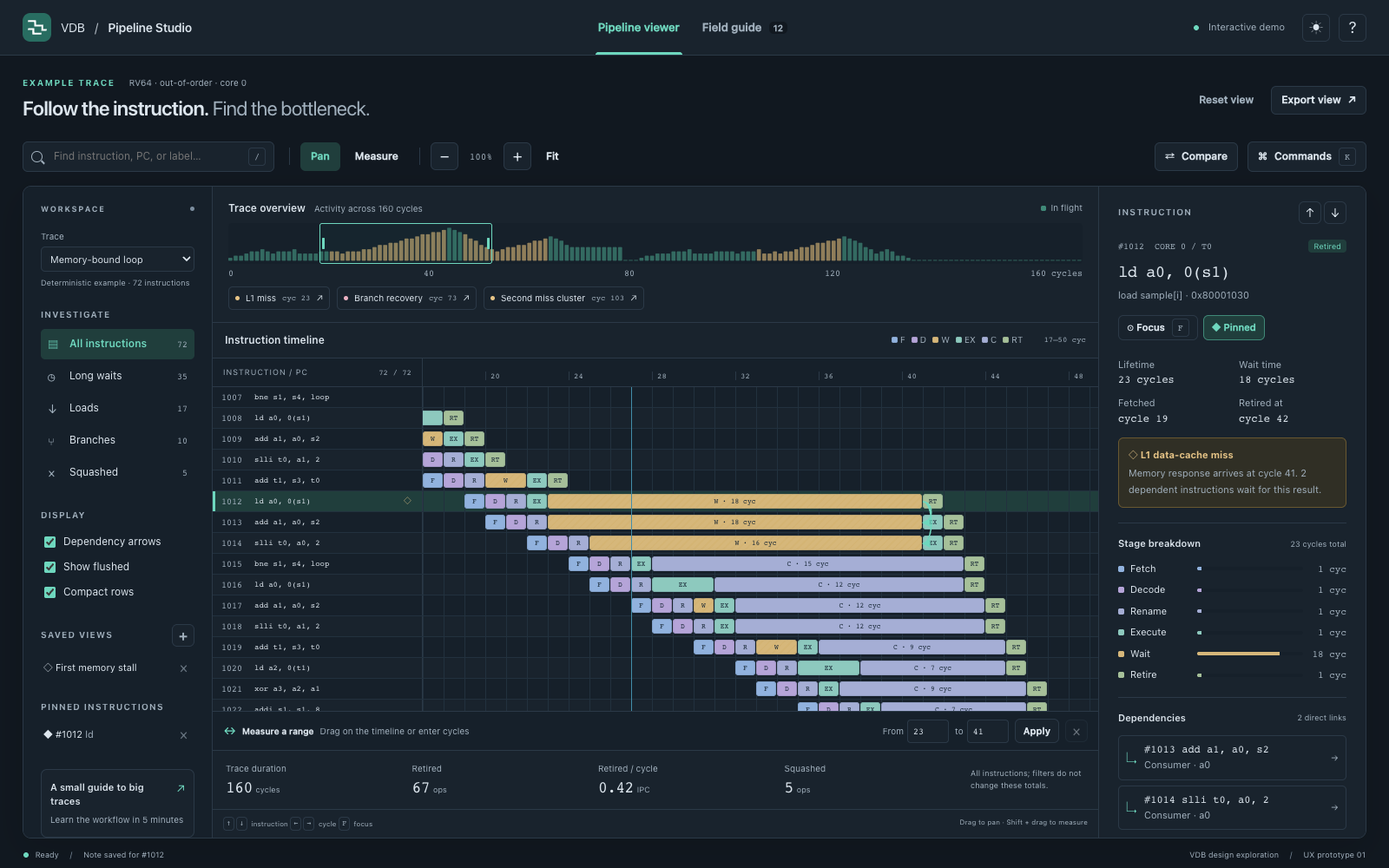
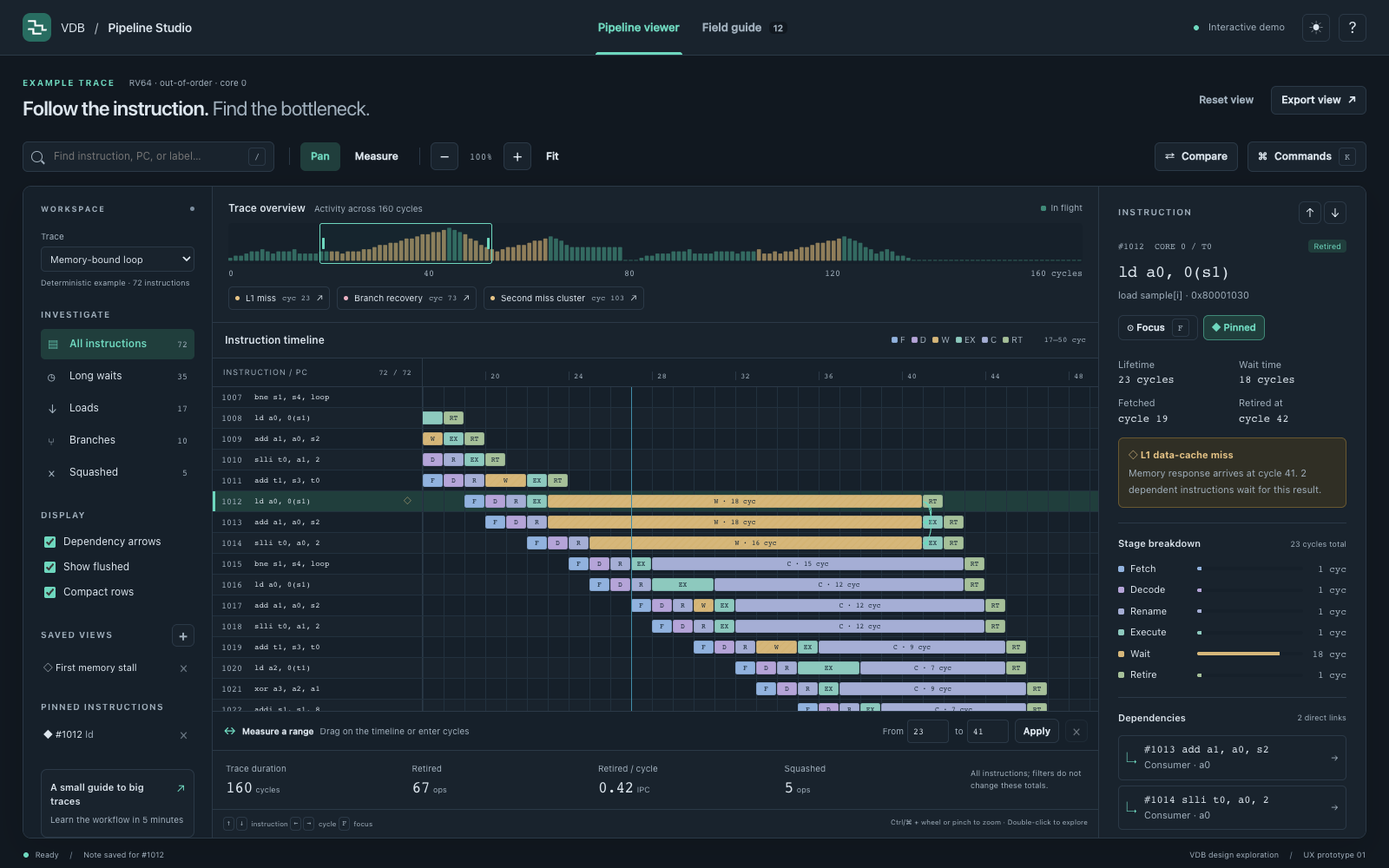
Add map-style zoom to the pipeline viewer demo
Scale cycles and instruction rows together around the pointer or pinch gesture. Add double-click zoom, fit the complete pipeline, simplify labels at small scales, and refresh the tutorial screenshots.

Validation: all eight browser workflow tests pass, including two-axis pointer anchoring, touch pinch and pan, full-pipeline fit, and saved zoom restoration.

diff --git a/demos/pipeline-viewer/app.js b/demos/pipeline-viewer/app.js
@@ -51,9 +51,9 @@ function generate(scenario, extra=0) {
 function persist(){try{localStorage.setItem(storeKey,JSON.stringify({theme:state.theme,notes:state.notes,pins:state.pins,bookmarks:state.bookmarks}));}catch{notify('Storage unavailable. Your changes remain in this session.');}}
 function notify(message){$('toast').textContent=message;$('toast').classList.add('show');clearTimeout(toastTimer);toastTimer=setTimeout(()=>$('toast').classList.remove('show'),2600);$('status-text').textContent=message;}
 function selected(){return data.find(o=>o.id===state.selected);}
-function rowHeight(){return state.compact?24:34;}
+function rowHeight(){return Math.round((state.compact?24:34)*state.zoom/24*64)/64;}
 function match(o){const query=state.search.toLowerCase();return (!query||`${o.id} ${o.pc} ${o.text} ${o.label} ${o.cause}`.toLowerCase().includes(query)) && (state.showFlushed||!o.flushed) && (state.filter==='all'||state.filter==='stall'&&o.wait>3||state.filter==='flush'&&o.flushed||state.filter==='load'&&o.kind==='load'||state.filter==='branch'&&o.kind==='branch');}
-function stageHTML(o,s,ghost=false){const width=(s.end-s.start)*state.zoom;return ghost?`<div class="ghost-stage" style="left:${s.start*state.zoom}px;width:${width-1}px"></div>`:`<button class="stage ${s.code==='W'?'wait':''} ${o.flushed?'flushed':''}" data-id="${o.id}" data-cycle="${s.start}" tabindex="-1" style="left:${s.start*state.zoom}px;width:${Math.max(.4,width-1)}px;background-color:${STAGES[s.code].color}" aria-label="Instruction ${o.id}, ${STAGES[s.code].name}, cycles ${s.start} to ${s.end}" title="#${o.id} · ${STAGES[s.code].name} · [${s.start}, ${s.end}) · ${s.end-s.start} cycle${s.end-s.start===1?'':'s'}${o.cause&&s.code==='W'?' · '+esc(o.cause):''}"><span class="stage-text">${width>=16?s.code+(width>87&&s.end-s.start>2?' · '+(s.end-s.start)+' cyc':''):''}</span></button>`;}
+function stageHTML(o,s,ghost=false){const width=(s.end-s.start)*state.zoom;return ghost?`<div class="ghost-stage" style="left:${s.start*state.zoom}px;width:${Math.max(.4,width-1)}px"></div>`:`<button class="stage ${s.code==='W'?'wait':''} ${o.flushed?'flushed':''}" data-id="${o.id}" data-cycle="${s.start}" tabindex="-1" style="left:${s.start*state.zoom}px;width:${Math.max(.4,width-1)}px;background-color:${STAGES[s.code].color}" aria-label="Instruction ${o.id}, ${STAGES[s.code].name}, cycles ${s.start} to ${s.end}" title="#${o.id} · ${STAGES[s.code].name} · [${s.start}, ${s.end}) · ${s.end-s.start} cycle${s.end-s.start===1?'':'s'}${o.cause&&s.code==='W'?' · '+esc(o.cause):''}"><span class="stage-text">${width>=16&&rowHeight()>=14?s.code+(width>87&&s.end-s.start>2?' · '+(s.end-s.start)+' cyc':''):''}</span></button>`;}
 function renderRows(){
   const scroll=$('chart-scroll'), oldTop=scroll.scrollTop, oldLeft=scroll.scrollLeft;
   const restoreRowFocus=!!document.activeElement?.closest('.row-label');
@@ -62,8 +62,11 @@ function renderRows(){
   const newSelectedIndex=visible.findIndex(o=>o.id===state.selected);
   document.body.classList.toggle('compact',state.compact);
   document.documentElement.style.setProperty('--cycle-width',state.zoom+'px');
+  document.body.style.setProperty('--row-height',rowHeight()+'px');
+  document.body.classList.toggle('map-overview',rowHeight()<20);
+  document.body.classList.toggle('map-middle',rowHeight()>=20&&rowHeight()<30);
   $('chart-content').hidden=!visible.length;$('empty').hidden=!!visible.length;
-  $('rows').innerHTML=visible.map(o=>`<div class="instruction-row ${o.id===state.selected?'selected':''}" data-row="${o.id}"><button class="row-label" data-id="${o.id}" aria-label="Select instruction ${o.id}: ${esc(o.text)}${o.flushed?', squashed':''}" aria-pressed="${o.id===state.selected}" tabindex="${o.id===state.selected?'0':'-1'}"><span class="row-id">${o.id}</span><span class="instruction-copy"><strong>${esc(o.text)}</strong><small>${o.pc}</small></span><span class="row-status ${o.flushed?'flushed':''}" title="${o.flushed?'Squashed':o.miss?'Cache miss':state.pins.includes(o.id)?'Pinned':''}">${o.flushed?'×':o.miss?'◇':state.pins.includes(o.id)?'◆':''}</span></button><div class="row-timeline">${state.compare?baseline.find(b=>b.id===o.id).stages.map(s=>stageHTML(o,s,true)).join(''):''}${o.stages.map(s=>stageHTML(o,s)).join('')}</div></div>`).join('');
+  $('rows').innerHTML=visible.map((o,i)=>`<div class="instruction-row ${o.id===state.selected?'selected':''} ${i%Math.ceil(22/rowHeight())===0?'scale-label':''}" data-row="${o.id}"><button class="row-label" data-id="${o.id}" aria-label="Select instruction ${o.id}: ${esc(o.text)}${o.flushed?', squashed':''}" aria-pressed="${o.id===state.selected}" tabindex="${o.id===state.selected?'0':'-1'}"><span class="row-id">${o.id}</span><span class="instruction-copy"><strong>${esc(o.text)}</strong><small>${o.pc}</small></span><span class="row-status ${o.flushed?'flushed':''}" title="${o.flushed?'Squashed':o.miss?'Cache miss':state.pins.includes(o.id)?'Pinned':''}">${o.flushed?'×':o.miss?'◇':state.pins.includes(o.id)?'◆':''}</span></button><div class="row-timeline">${state.compare?baseline.find(b=>b.id===o.id).stages.map(s=>stageHTML(o,s,true)).join(''):''}${o.stages.map(s=>stageHTML(o,s)).join('')}</div></div>`).join('');
   const step=state.zoom<8?16:state.zoom<16?8:state.zoom<32?4:2;
   $('ticks').innerHTML=Array.from({length:Math.floor(TOTAL/step)+1},(_,i)=>`<span style="left:${i*step*state.zoom}px">${i*step}</span>`).join('');
   $('row-count').textContent=`${visible.length} / ${data.length}`;$('search-count').textContent=state.search?`${visible.length} found`:'';
@@ -83,7 +86,7 @@ function renderArrows(){
     const source=data.find(o=>o.id===a),target=data.find(o=>o.id===b);
     const x1=source.ready*state.zoom,x2=(target.stages.find(s=>s.code==='EX')?.start||target.start)*state.zoom;
     const y1=ai*rowHeight()+rowHeight()/2,y2=bi*rowHeight()+rowHeight()/2;
-    return `<path d="M${x1} ${y1} C${x1+13} ${y1},${x2+13} ${y2},${x2} ${y2}" fill="none" stroke="var(--accent)" stroke-width="1.6" marker-end="url(#arrow-head)"/>`;
+    return `<path d="M${x1} ${y1} C${x1+13} ${y1},${x2+13} ${y2},${x2} ${y2}" fill="none" stroke="var(--accent)" stroke-width="${Math.min(1.6,Math.max(.35,rowHeight()/34*1.6))}" marker-end="url(#arrow-head)"/>`;
   }).join('');
 }
 function renderCursor(){const line=$('cursor-line');line.style.left=LABEL+state.cursor*state.zoom+'px';line.hidden=!visible.length;$('cursor-tag').textContent=state.cursor;}
@@ -118,10 +121,27 @@ function renderInspector(){
 function noteKey(id){return state.scenario+':'+id;}
 function relation(o,label,icon){return `<button class="relation-button" data-jump="${o.id}"><span aria-hidden="true">${icon}</span><div><strong>#${o.id} ${esc(o.text)}</strong><small>${label}</small></div><em aria-hidden="true">→</em></button>`;}
 function selectInstruction(id,cycle,focus=false){if(!data.some(o=>o.id===id))return;const changed=state.selected!==id;state.selected=id;if(Number.isFinite(cycle))state.cursor=clamp(cycle,0,TOTAL-1);renderRows();renderInspector();if(changed)$('inspector').scrollTop=0;if(focus)focusSelection();$('status-text').textContent=`#${id} selected · ${selected().text}`;}
-function focusSelection(){const o=selected();if(!o)return;if(!match(o)){clearFilters(false);}const sc=$('chart-scroll'),available=Math.max(120,sc.clientWidth-LABEL);const end=state.compare?Math.max(o.end,baseline.find(b=>b.id===o.id).end):o.end;if((end-o.start+4)*state.zoom>available)state.zoom=clamp(available/(end-o.start+4),.5,64);renderRows();sc.scrollLeft=Math.max(0,(o.start-2)*state.zoom);const i=visible.findIndex(v=>v.id===o.id);sc.scrollTop=Math.max(0,i*rowHeight()-sc.clientHeight/3);renderOverviewWindow();renderInspector();}
+function focusSelection(){const o=selected();if(!o)return;if(!match(o)){clearFilters(false);}const sc=$('chart-scroll'),available=Math.max(120,sc.clientWidth-LABEL);const end=state.compare?Math.max(o.end,baseline.find(b=>b.id===o.id).end):o.end;state.zoom=Math.max(24,state.zoom);if((end-o.start+4)*state.zoom>available)state.zoom=clamp(available/(end-o.start+4),.5,64);renderRows();sc.scrollLeft=Math.max(0,(o.start-2)*state.zoom);const i=visible.findIndex(v=>v.id===o.id);sc.scrollTop=Math.max(0,i*rowHeight()-sc.clientHeight/3);renderOverviewWindow();renderInspector();}
 function stepInstruction(dir){if(!visible.length)return;let i=visible.findIndex(o=>o.id===state.selected);i=clamp(i+dir,0,visible.length-1);selectInstruction(visible[i].id);const sc=$('chart-scroll'),top=i*rowHeight();if(top<sc.scrollTop||top>sc.scrollTop+sc.clientHeight-rowHeight()-33)sc.scrollTop=Math.max(0,top-sc.clientHeight/2);}
-function zoom(factor,anchor){const sc=$('chart-scroll'),old=state.zoom;const px=anchor===undefined?Math.max(0,sc.clientWidth-LABEL)/2:anchor;const cycle=(sc.scrollLeft+px)/old;state.zoom=clamp(state.zoom*factor,.5,64);renderRows();sc.scrollLeft=cycle*state.zoom-px;renderOverviewWindow();}
-function fit(){const sc=$('chart-scroll');state.zoom=clamp((sc.clientWidth-LABEL)/TOTAL,.5,64);renderRows();sc.scrollLeft=0;renderOverviewWindow();notify('Entire trace fitted to the timeline');}
+// Anchor coordinates are in the scroll viewport, excluding the fixed label column and ruler.
+function mapAnchor(point){
+  const sc=$('chart-scroll');
+  const x=point?.x??Math.max(0,sc.clientWidth-LABEL)/2;
+  const y=point?.y??Math.max(0,sc.clientHeight-33)/2;
+  return {cycle:(sc.scrollLeft+x)/state.zoom,row:(sc.scrollTop+y)/rowHeight(),x,y};
+}
+function zoomTo(value,anchor){
+  const sc=$('chart-scroll');state.zoom=clamp(value,.5,64);renderRows();
+  sc.scrollLeft=anchor.cycle*state.zoom-anchor.x;
+  sc.scrollTop=anchor.row*rowHeight()-anchor.y;
+  renderOverviewWindow();
+}
+function zoom(factor,point){zoomTo(state.zoom*factor,mapAnchor(point));}
+function fit(){
+  const sc=$('chart-scroll');
+  state.zoom=clamp(Math.min((sc.clientWidth-LABEL)/TOTAL,(sc.clientHeight-33)*24/(Math.max(1,visible.length)*(state.compact?24:34))),.5,64);
+  renderRows();sc.scrollLeft=0;sc.scrollTop=0;renderOverviewWindow();notify('Entire pipeline fitted · cycles and instructions');
+}
 function clearFilters(render=true){state.search='';state.filter='all';state.showFlushed=true;$('search').value='';$('show-flushed').checked=true;renderFilters();if(render){renderRows();renderInspector();}}
 function filterBy(value){state.filter=value;if(value==='flush'){state.showFlushed=true;$('show-flushed').checked=true;}renderFilters();renderRows();renderInspector();}
 function toggleCompare(){state.compare=!state.compare;renderRows();renderInspector();if(state.compare)focusSelection();notify(state.compare?'Baseline overlaid · aligned by instruction ID':'Comparison hidden');}
@@ -137,7 +157,7 @@ function bookmark(){openDialog('save-dialog');$('bookmark-name').value=`${select
 function applyRange(){const a=Number($('range-start').value),b=Number($('range-end').value);if(!Number.isInteger(a)||!Number.isInteger(b)||a<0||b>TOTAL||a>=b){notify('Use whole cycles from 0 to 160, with the end after the start.');return;}state.range=[a,b];renderRange();renderMetrics();notify(`Measured ${b-a} cycles · [${a}, ${b})`);}
 function openDialog(id){$(id).showModal();}
 function showTab(name,focus=false){const tutorial=name==='tutorial';$('viewer').hidden=tutorial;$('tutorial').hidden=!tutorial;for(const item of ['viewer','tutorial']){const active=item===name;$('tab-'+item).setAttribute('aria-selected',active);$('tab-'+item).tabIndex=active?0:-1;}if(focus)$('tab-'+name).focus();if(!tutorial)requestAnimationFrame(()=>{renderOverviewWindow();});}
-const shortcuts=[['Search instructions','/'],['Command palette','⌘ / Ctrl','K'],['Previous / next instruction','↑','↓'],['Move cycle cursor','←','→'],['Zoom in / out','+','−'],['Focus selected instruction','F'],['Fit full trace','0'],['Measure mode','M'],['Toggle dependencies','D'],['Compare baseline','C'],['Bookmark view','B'],['Pin selected instruction','P'],['Clear search / range','Esc'],['Show this reference','?']];
+const shortcuts=[['Search instructions','/'],['Command palette','⌘ / Ctrl','K'],['Previous / next instruction','↑','↓'],['Move cycle cursor','←','→'],['Map zoom in / out','+','−'],['Zoom at pointer','Ctrl / ⌘','wheel'],['Zoom at point','Double-click'],['Zoom out at point','Shift','Double-click'],['Touch map zoom','Pinch'],['Focus selected instruction','F'],['Fit full trace','0'],['Measure mode','M'],['Toggle dependencies','D'],['Compare baseline','C'],['Bookmark view','B'],['Pin selected instruction','P'],['Clear search / range','Esc'],['Show this reference','?']];
 $('shortcut-list').innerHTML=shortcuts.map(([label,...keys])=>`<div class="shortcut"><span>${label}</span><span>${keys.map(k=>`<kbd>${k}</kbd>`).join('')}</span></div>`).join('');
 function commandDefinitions(){return [
  ['Focus selected instruction','F',focusSelection],['Fit entire trace','0',fit],['Compare with baseline','C',toggleCompare],['Measure a range','M',()=>{state.mode='measure';renderRange();$('range-start').focus();}],['Save view as bookmark','B',bookmark],['Pin selected instruction','P',()=>togglePin(state.selected)],['Toggle dependency arrows','D',()=>{$('dependencies').click();}],['Show long waits','',()=>filterBy('stall')],['Show all instructions','',()=>clearFilters()],['Open branch recovery example','',()=>{clearFilters(false);loadScenario('branch');selectInstruction(1036,73,true);}],['Switch appearance','',toggleTheme],['Keyboard shortcuts','?',()=>openDialog('shortcuts')],['Open the field guide','',()=>showTab('tutorial')],['Reset view','',reset]
@@ -170,11 +190,47 @@ document.addEventListener('click',e=>{
  if(b.dataset.image){$('expanded-image').src=b.dataset.image;$('expanded-image').alt=b.querySelector('img').alt;openDialog('image-dialog');}
 });
 const sc=$('chart-scroll');sc.addEventListener('scroll',renderOverviewWindow,{passive:true});
-sc.addEventListener('wheel',e=>{if(e.ctrlKey||e.metaKey){e.preventDefault();const box=sc.getBoundingClientRect();zoom(e.deltaY<0?1.12:1/1.12,Math.max(0,e.clientX-box.left-LABEL));}},{passive:false});
+function pointerPoint(e){const box=sc.getBoundingClientRect();return {x:Math.max(0,e.clientX-box.left-LABEL),y:Math.max(0,e.clientY-box.top-33)};}
+sc.addEventListener('wheel',e=>{
+  if(e.ctrlKey||e.metaKey){
+    e.preventDefault();
+    const pixels=e.deltaY*(e.deltaMode===1?16:e.deltaMode===2?sc.clientHeight:1);
+    zoom(Math.exp(clamp(-pixels*.003,-.7,.7)),pointerPoint(e));
+  }
+},{passive:false});
+sc.addEventListener('dblclick',e=>{
+  if(e.target.closest('.row-label')||e.clientX-sc.getBoundingClientRect().left<LABEL)return;
+  e.preventDefault();zoom(e.shiftKey?.5:2,pointerPoint(e));
+});
 function timelineCycle(e){const r=sc.getBoundingClientRect();return clamp(Math.floor((e.clientX-r.left+sc.scrollLeft-LABEL)/state.zoom),0,TOTAL-1);}
-sc.addEventListener('pointerdown',e=>{if(e.button!==0||e.target.closest('.row-label')||e.target.closest('.empty-state'))return;const bounds=sc.getBoundingClientRect();if(e.clientX-bounds.left<LABEL)return;drag={x:e.clientX,y:e.clientY,left:sc.scrollLeft,top:sc.scrollTop,cycle:timelineCycle(e),measure:state.mode==='measure'||e.shiftKey,moved:false,targetId:Number(e.target.closest('.stage')?.dataset.id),stageCycle:Number(e.target.closest('.stage')?.dataset.cycle)};if(e.pointerType==='mouse')sc.setPointerCapture(e.pointerId);});
-sc.addEventListener('pointermove',e=>{if(!drag)return;const dx=e.clientX-drag.x,dy=e.clientY-drag.y;if(Math.abs(dx)+Math.abs(dy)>4)drag.moved=true;if(!drag.moved)return;if(drag.measure){const c=timelineCycle(e);state.range=[Math.min(c,drag.cycle),Math.max(c,drag.cycle)+1];renderRange();renderMetrics();}else{sc.scrollLeft=drag.left-dx;sc.scrollTop=drag.top-dy;}});
-sc.addEventListener('pointerup',e=>{if(!drag)return;if(!drag.moved){if(drag.targetId){selectInstruction(drag.targetId,drag.stageCycle);sc.focus({preventScroll:true});}else{state.cursor=timelineCycle(e);renderCursor();}}ignoreClick=drag.moved||!!drag.targetId;drag=null;setTimeout(()=>ignoreClick=false,0);});sc.addEventListener('pointercancel',()=>drag=null);
+const touches=new Map();let pinch=null;
+function touchPair(){const [a,b]=[...touches.values()];return {distance:Math.max(1,Math.hypot(b.x-a.x,b.y-a.y)),x:(a.x+b.x)/2,y:(a.y+b.y)/2};}
+sc.addEventListener('pointerdown',e=>{
+  if(e.button!==0||e.target.closest('.row-label')||e.target.closest('.empty-state'))return;
+  const bounds=sc.getBoundingClientRect();if(e.clientX-bounds.left<LABEL)return;
+  sc.setPointerCapture(e.pointerId);
+  if(e.pointerType==='touch'){
+    touches.set(e.pointerId,pointerPoint(e));
+    if(touches.size>=2){const pair=touchPair();pinch={...pair,zoom:state.zoom,anchor:mapAnchor(pair)};drag=null;return;}
+  }
+  drag={x:e.clientX,y:e.clientY,left:sc.scrollLeft,top:sc.scrollTop,cycle:timelineCycle(e),measure:state.mode==='measure'||e.shiftKey,moved:false,targetId:Number(e.target.closest('.stage')?.dataset.id),stageCycle:Number(e.target.closest('.stage')?.dataset.cycle)};
+});
+sc.addEventListener('pointermove',e=>{
+  if(touches.has(e.pointerId))touches.set(e.pointerId,pointerPoint(e));
+  if(pinch){if(touches.size>=2){const pair=touchPair();zoomTo(pinch.zoom*pair.distance/pinch.distance,{...pinch.anchor,x:pair.x,y:pair.y});}return;}
+  if(!drag)return;const dx=e.clientX-drag.x,dy=e.clientY-drag.y;
+  if(Math.abs(dx)+Math.abs(dy)>4)drag.moved=true;if(!drag.moved)return;
+  if(drag.measure){const c=timelineCycle(e);state.range=[Math.min(c,drag.cycle),Math.max(c,drag.cycle)+1];renderRange();renderMetrics();}
+  else{sc.scrollLeft=drag.left-dx;sc.scrollTop=drag.top-dy;}
+});
+sc.addEventListener('pointerup',e=>{
+  touches.delete(e.pointerId);
+  if(pinch){if(!touches.size)pinch=null;drag=null;ignoreClick=true;setTimeout(()=>ignoreClick=false,0);return;}
+  if(!drag)return;
+  if(!drag.moved){if(drag.targetId){selectInstruction(drag.targetId,drag.stageCycle);sc.focus({preventScroll:true});}else{state.cursor=timelineCycle(e);renderCursor();}}
+  ignoreClick=drag.moved||!!drag.targetId;drag=null;setTimeout(()=>ignoreClick=false,0);
+});
+sc.addEventListener('pointercancel',e=>{touches.delete(e.pointerId);if(!touches.size)pinch=null;drag=null;});
 $('overview').addEventListener('pointerdown',e=>{const box=$('overview').getBoundingClientRect();const span=(sc.clientWidth-LABEL)/state.zoom;const move=event=>{const c=(event.clientX-box.left)/box.width*TOTAL;sc.scrollLeft=Math.max(0,(c-span/2)*state.zoom);};move(e);$('overview').setPointerCapture(e.pointerId);const onMove=event=>move(event),end=()=>{$('overview').removeEventListener('pointermove',onMove);$('overview').removeEventListener('pointerup',end);};$('overview').addEventListener('pointermove',onMove);$('overview').addEventListener('pointerup',end);});
 $('overview').onkeydown=e=>{if(['ArrowLeft','ArrowRight','Home','End'].includes(e.key)){e.preventDefault();sc.scrollLeft=e.key==='Home'?0:e.key==='End'?sc.scrollWidth:sc.scrollLeft+(e.key==='ArrowRight'?8:-8)*state.zoom;}};
 document.addEventListener('keydown',e=>{
@@ -186,7 +242,7 @@ document.addEventListener('keydown',e=>{
 new ResizeObserver(()=>renderOverviewWindow()).observe(sc);
 const lessons=[
  {id:'overview',title:'Read the shape of execution',intro:'Instructions run down the page. Cycles run left to right. Start wide: a long horizontal band often deserves a closer look.',steps:['Use the <strong>Trace</strong> selector to switch between memory-bound, branch-recovery, and steady examples. Each contains 72 illustrative instructions.','The <strong>overview bars</strong> count instructions in flight. The outlined window marks the visible cycles. Click or drag anywhere in the overview to move it.','Select an <strong>event chip</strong> to jump directly to a cache miss or branch recovery. The inspector explains the selected instruction.'],caption:'A memory-bound loop, with the first cache miss selected and the visible time window outlined above.',tip:'Warm overview bars mark a miss in progress; height still encodes in-flight count.'},
- {id:'navigate',title:'Move without losing your place',intro:'The overview preserves context while the timeline gives you cycle-level precision. Instruction labels and the cycle ruler stay in place as you move.',steps:['Choose <strong>Pan</strong> and drag the timeline. Native horizontal scrolling and trackpad gestures work too. Scroll vertically to move through instruction rows.','Use <strong>+ / −</strong> or Ctrl/Command + wheel to zoom around the current view or pointer. Stage labels simplify when cells become small. C is a commit wait: execution is done, but retirement is waiting for older work.','Use <strong>Fit</strong> (0) to see the full trace, <strong>Focus</strong> (F) to frame the selected instruction, and <strong>Reset view</strong> to restore the opening example.'],caption:'A zoomed-out view exposes the trace’s larger timing patterns while preserving instruction identity.',tip:'Focus clears filters only when needed to reveal the selected instruction.'},
+ {id:'navigate',title:'Move without losing your place',intro:'The overview preserves context while the timeline gives you cycle-level precision. Instruction labels and the cycle ruler stay in place as you move.',steps:['Choose <strong>Pan</strong> and drag the timeline. Native horizontal scrolling and trackpad gestures work too. Scroll vertically to move through instruction rows.','Zoom like a map: <strong>Ctrl/Command + wheel</strong> or a <strong>two-finger pinch</strong> scales both cycles and instruction rows around the gesture. <strong>Double-click</strong> zooms in; <strong>Shift + double-click</strong> zooms out. The + / − controls zoom around the center. Labels simplify at small scales. C is a commit wait: execution is done, but retirement is waiting for older work.','Use <strong>Fit</strong> (0) to see all cycles and instruction rows, <strong>Focus</strong> (F) to frame the selected instruction, and <strong>Reset view</strong> to restore the opening example.'],caption:'Map zoom fits the entire pipeline in both dimensions, exposing the shape of cache stalls and recovery.',tip:'Focus clears filters only when needed to reveal the selected instruction.'},
  {id:'inspect',title:'Make one instruction the anchor',intro:'Click a label or stage to select it. The inspector remains beside the trace, so the evidence and explanation stay visible together.',steps:['Select <strong>#1012</strong>. Its inspector shows the disassembly, PC, lifetime, fetch and retire cycles, and exact time spent in each stage.','Hover a stage for its <strong>cycle interval</strong>. Selecting a stage also places the blue cycle cursor at its start. Wait spans carry labels as well as color.','Focus the timeline and use <strong>↑ / ↓</strong> to select neighboring instructions and <strong>← / →</strong> to move the cycle cursor. The inspector’s arrow buttons offer the same instruction navigation.'],caption:'A selected load, its 18-cycle memory wait, and the per-stage breakdown.',tip:'Intervals are half-open: [23, 41) represents 18 cycles.'},
  {id:'dependencies',title:'Follow the wait to its cause',intro:'A waiting instruction is a symptom. Follow its producer to find the cause, then return through the consumer links.',steps:['Select <strong>#1013</strong>, which waits for register a0. The cause card identifies its producer and the cycle when that value becomes available.','Click the <strong>Producer #1012</strong> link. The timeline frames the load, and direct consumers appear in the inspector. Follow either consumer to continue the investigation.','Toggle <strong>Dependency arrows</strong> (D) to show or hide the selected instruction’s direct links. Unrelated arrows stay hidden to keep the graph readable.'],caption:'The dependent add is selected. Its producer link leads directly to the load responsible for the wait.',tip:'Links still work when a producer is off-screen or excluded by a filter.'},
  {id:'search',title:'Find the signal in the noise',intro:'Search and investigation filters narrow the rows immediately. Selection stays available in the inspector even if it falls outside the current results.',steps:['Press <strong>/</strong> and enter an opcode, instruction ID, PC, or label. Search is case-insensitive literal text; try <strong>ld</strong> or <strong>1012</strong>.','Combine search with <strong>Loads</strong>, <strong>Long waits</strong>, <strong>Branches</strong>, or <strong>Squashed</strong>. The result count always shows how many rows remain. Enter focuses the first match.','Use the search field’s clear control or <strong>Escape</strong> to reset filters. If nothing matches, the empty state provides a single <strong>Clear filters</strong> action.'],caption:'Load instructions filtered by “ld”, with the original selection and inspector retained.',tip:'Display filters never change the trace-wide or range metrics.'},
@@ -205,7 +261,7 @@ $('chapters').innerHTML=lessons.map((l,i)=>`<article class="chapter" id="lesson-
 function lesson(id){
  showTab('viewer');reset();state.theme='light';theme();
  switch(id){
- case 'navigate':state.compact=true;syncControls();renderRows();fit();sc.scrollTop=120;break;
+ case 'navigate':fit();break;
  case 'inspect':selectInstruction(1012,23,true);break;
  case 'dependencies':selectInstruction(1013,25,true);break;
  case 'search':state.search='ld';state.filter='load';syncControls();renderFilters();renderRows();renderInspector();break;

diff --git a/demos/pipeline-viewer/tests/viewer.spec.js b/demos/pipeline-viewer/tests/viewer.spec.js
@@ -128,3 +128,62 @@ test('standalone file opens without network or a server', async ({page})=>{
  await expect(image).toHaveJSProperty('complete',true);expect(await image.evaluate(e=>e.naturalWidth)).toBeGreaterThan(0);
  expect(errors).toEqual([]);
 });
+
+test('map zoom scales both axes, anchors the pointer, fits all rows and restores detail', async ({page})=>{
+ await open(page);
+ const sc=page.locator('#chart-scroll'), box=await sc.boundingBox();
+ const point={x:box.x+242+(box.width-242)*.45,y:box.y+33+(box.height-33)*.45};
+ const coords=()=>sc.evaluate((el,p)=>{
+   const rect=el.getBoundingClientRect();const zoom=parseFloat(getComputedStyle(document.documentElement).getPropertyValue('--cycle-width'));
+   const height=document.querySelector('.instruction-row').getBoundingClientRect().height;
+   return {cycle:(el.scrollLeft+p.x-rect.x-242)/zoom,row:(el.scrollTop+p.y-rect.y-33)/height,zoom,height};
+ },point);
+ const before=await coords();
+ await page.mouse.move(point.x,point.y);await page.keyboard.down('Control');await page.mouse.wheel(0,-120);await page.keyboard.up('Control');
+ await expect.poll(async()=>(await coords()).zoom).toBeGreaterThan(before.zoom);
+ const after=await coords();expect(after.height).toBeGreaterThan(before.height);
+ expect(Math.abs(after.cycle-before.cycle)).toBeLessThan(.1);expect(Math.abs(after.row-before.row)).toBeLessThan(.1);
+ await page.keyboard.down('Shift');await page.mouse.dblclick(point.x,point.y);await page.keyboard.up('Shift');
+ const reduced=await coords();expect(reduced.zoom).toBeCloseTo(after.zoom/2,1);expect(reduced.height).toBeLessThan(after.height);
+ // Double-click the same location back in; no fetch-alignment jump should occur.
+ await page.mouse.dblclick(point.x,point.y);
+ expect((await coords()).zoom).toBeCloseTo(after.zoom,1);
+ await page.getByRole('button',{name:'Fit',exact:true}).click();
+ const fit=await sc.evaluate(el=>({w:el.scrollWidth,cw:el.clientWidth,h:el.scrollHeight,ch:el.clientHeight,top:el.scrollTop,left:el.scrollLeft}));
+ expect(fit.w-fit.cw).toBeLessThanOrEqual(2);expect(fit.h-fit.ch).toBeLessThanOrEqual(2);expect(fit.top).toBe(0);expect(fit.left).toBe(0);
+ await expect(page.locator('body')).toHaveClass(/map-overview/);
+ await page.getByLabel('Bookmark this view').click();await page.getByLabel('View name').fill('Pipeline map');await page.getByRole('button',{name:'Save view',exact:true}).click();
+ const fitHeight=await page.locator('.instruction-row').first().evaluate(el=>el.getBoundingClientRect().height);
+ await page.getByRole('button',{name:'⊙ Focus F'}).click();
+ expect(await page.locator('.instruction-row').first().evaluate(el=>el.getBoundingClientRect().height)).toBeGreaterThan(20);
+ await page.locator('[data-bookmark="0"]').click();
+ expect(await page.locator('.instruction-row').first().evaluate(el=>el.getBoundingClientRect().height)).toBeCloseTo(fitHeight,1);
+});
+
+test('two-finger pinch zooms the pipeline and never creates a selection range', async ({page,context})=>{
+ await open(page);
+ const client=await context.newCDPSession(page);await client.send('Emulation.setTouchEmulationEnabled',{enabled:true,maxTouchPoints:2});
+ const box=await page.locator('#chart-scroll').boundingBox();const x=box.x+242+(box.width-242)/2,y=box.y+33+(box.height-33)/2;
+ const value=()=>page.locator('.instruction-row').first().evaluate(el=>el.getBoundingClientRect().height);
+ const coordinate=()=>page.locator('#chart-scroll').evaluate((el,p)=>{
+   const rect=el.getBoundingClientRect();
+   const width=parseFloat(getComputedStyle(document.documentElement).getPropertyValue('--cycle-width'));
+   const height=document.querySelector('.instruction-row').getBoundingClientRect().height;
+   return [(el.scrollLeft+p.x-rect.x-242)/width,(el.scrollTop+p.y-rect.y-33)/height];
+ },{x,y});
+ const beforeCoordinate=await coordinate();
+ const before=await value();
+ const point=(id,px,py)=>({id,x:px,y:py,radiusX:3,radiusY:3,force:1});
+ await client.send('Input.dispatchTouchEvent',{type:'touchStart',touchPoints:[point(1,x-50,y),point(2,x+50,y)]});
+ await client.send('Input.dispatchTouchEvent',{type:'touchMove',touchPoints:[point(1,x-85,y-20),point(2,x+85,y+20)]});
+ await client.send('Input.dispatchTouchEvent',{type:'touchEnd',touchPoints:[]});
+ await expect.poll(value).toBeGreaterThan(before*1.5);
+ const afterCoordinate=await coordinate();for(let i=0;i<2;i++)expect(Math.abs(afterCoordinate[i]-beforeCoordinate[i])).toBeLessThan(.15);
+ await expect(page.locator('#range-overlay')).toBeHidden();
+ // A fresh one-finger pan works after the pinch ends.
+ const sc=page.locator('#chart-scroll'),left=await sc.evaluate(el=>el.scrollLeft);
+ await client.send('Input.dispatchTouchEvent',{type:'touchStart',touchPoints:[point(1,x,y)]});
+ await client.send('Input.dispatchTouchEvent',{type:'touchMove',touchPoints:[point(1,x-60,y)]});
+ await client.send('Input.dispatchTouchEvent',{type:'touchEnd',touchPoints:[]});
+ expect(await sc.evaluate(el=>el.scrollLeft)).toBeGreaterThan(left);
+});

diff --git a/demos/pipeline-viewer/index.html b/demos/pipeline-viewer/index.html
@@ -26,7 +26,7 @@
     <div class="toolbar-divider"></div>
     <button id="pan-mode" class="button tool selected" aria-pressed="true" title="Pan the timeline">Pan</button><button id="measure-mode" class="button tool" aria-pressed="false" title="Measure a cycle range (M)">Measure</button>
     <div class="toolbar-divider"></div>
-    <button id="zoom-out" class="icon-button" aria-label="Zoom out" title="Zoom out (-)">−</button><output id="zoom-label" class="zoom-label">100%</output><button id="zoom-in" class="icon-button" aria-label="Zoom in" title="Zoom in (+)">+</button><button id="fit" class="button tool" title="Fit the trace (0)">Fit</button>
+    <button id="zoom-out" class="icon-button" aria-label="Zoom out" title="Zoom out (-)">−</button><output id="zoom-label" class="zoom-label">100%</output><button id="zoom-in" class="icon-button" aria-label="Zoom in" title="Zoom in (+)">+</button><button id="fit" class="button tool" title="Fit all cycles and instructions (0)">Fit</button>
     <div class="toolbar-spacer"></div><button id="compare" class="button" aria-pressed="false" title="Compare with the baseline (C)"><span aria-hidden="true">⇄</span> Compare</button><button id="commands" class="button command-button" title="Command palette (⌘/Ctrl K)"><span aria-hidden="true">⌘</span> <span>Commands</span><kbd>K</kbd></button>
   </div>
   <div class="studio-grid">
@@ -54,7 +54,7 @@
       </div>
       <div class="range-bar" id="range-bar"><div><span class="range-icon" aria-hidden="true">↔</span><strong>Measure a range</strong><span class="range-hint">Drag on the timeline or enter cycles</span></div><label>From <input id="range-start" type="number" min="0" max="159" value="18" aria-label="Range start cycle"></label><label>to <input id="range-end" type="number" min="1" max="160" value="36" aria-label="Range end cycle"></label><button id="apply-range" class="button small">Apply</button><button id="clear-range" class="icon-button small" aria-label="Clear measurement" title="Clear measurement">×</button></div>
       <div class="analysis-bar" id="analysis-bar"></div>
-      <div class="timeline-footer"><span><kbd>↑</kbd><kbd>↓</kbd> instruction <kbd>←</kbd><kbd>→</kbd> cycle <kbd>F</kbd> focus</span><span>Drag to pan · Shift + drag to measure</span></div>
+      <div class="timeline-footer"><span><kbd>↑</kbd><kbd>↓</kbd> instruction <kbd>←</kbd><kbd>→</kbd> cycle <kbd>F</kbd> focus</span><span>Ctrl/⌘ + wheel or pinch to zoom · Double-click to explore</span></div>
     </section>
     <aside class="inspector" aria-label="Instruction inspector" id="inspector"></aside>
   </div>

diff --git a/demos/pipeline-viewer/styles.css b/demos/pipeline-viewer/styles.css
@@ -31,3 +31,16 @@ body.dark{color-scheme:dark;--bg:#111820;--surface:#19232d;--surface2:#16202a;--
 
 .duration-row .stage-name{width:70px;flex-shrink:0}
 body.dark .cause-card{background:#302f25}
+
+/* Map scale affects data geometry; application controls keep their comfortable size. */
+#chart-scroll{touch-action:none;overflow-anchor:none}
+.instruction-row{border-bottom-width:min(1px,calc(var(--row-height) * .08))}
+.stage,.compact .stage{top:calc(var(--row-height) * .18);height:calc(var(--row-height) * .64);min-height:0;border-radius:min(3px,calc(var(--row-height) * .1));border-width:min(1px,calc(var(--row-height) * .06))}
+.ghost-stage,.compact .ghost-stage{top:calc(var(--row-height) * .08);height:calc(var(--row-height) * .84)}
+.map-middle .instruction-copy small{display:none}
+.map-overview .instruction-copy,.map-overview .row-status,.map-overview .row-id{display:none}
+.map-overview .row-label{overflow:visible;min-height:0;padding-block:0}
+.map-overview .scale-label .row-label{z-index:6}
+.map-overview .scale-label .row-id{display:block;position:absolute;top:0;font-size:9px;line-height:12px;background:var(--surface);width:auto;padding-right:4px}
+.map-overview .stage-text{display:none}
+.map-overview .row-timeline{background-image:none}

diff --git a/demos/pipeline-viewer/RESEARCH.md b/demos/pipeline-viewer/RESEARCH.md
@@ -98,3 +98,22 @@ wrong-path work, compare two builds, and restore an investigation. Measure succe
 time, wrong turns, and confidence; test screen readers and alternative input devices.
 Tune density and defaults from those results. This prototype makes those tasks
 concrete enough to evaluate.
+
+## Map-style zoom
+
+Following Konata's map interaction, zoom now changes the cycle pitch and instruction
+row height together. Ctrl/Command + wheel and two-pointer touch pinch keep the cycle
+and fractional instruction position beneath the gesture fixed, except at trace
+boundaries where scrolling is clamped. Double-click doubles the scale;
+Shift + double-click halves it. Toolbar and keyboard zoom use the viewport center.
+Unmodified wheel/trackpad scrolling still pans, so ordinary scrolling remains familiar.
+
+Fit considers both the full cycle range and all filtered instruction rows. At small
+scales, sparse instruction IDs replace dense disassembly, stage text disappears,
+and the pipeline's geometry becomes the primary information. Focus returns to a
+readable scale. Comparison outlines, arrows, measurements, and saved views share
+the same transform. Controls and the inspector remain at their normal size.
+
+Browser regression checks verify both-axis scaling and pointer anchoring, full-view
+fit, return to detail, restoration of a saved map view, and real two-touch pinch/pan
+input dispatched through Chromium's input system.

diff --git a/demos/pipeline-viewer/README.md b/demos/pipeline-viewer/README.md
@@ -14,9 +14,11 @@ Open <http://127.0.0.1:8765>. A local server gives saved views a stable browser
 origin. With `file://`, storage behavior depends on the browser; the demo still runs.
 
 The viewer includes three deterministic example traces, instruction and stage
-selection, pan/zoom/focus, an overview, direct dependency links, search and filters,
+selection, map-style two-axis zoom, pan/focus, an overview, direct dependency links, search and filters,
 flush visibility, cycle-range measurement, baseline comparison, bookmarks, pins,
 notes, JSON export, a command palette, keyboard navigation, and light/dark themes.
+Ctrl/Command + wheel, double-click, and two-finger pinch zoom around the pointer
+or gesture; Fit shows all cycles and rows, and Focus returns to detail.
 The tutorial's Try it buttons prepare working examples; screenshots open full size.
 
 Data is synthetic and source mapping illustrative. This is a UI prototype, not a
